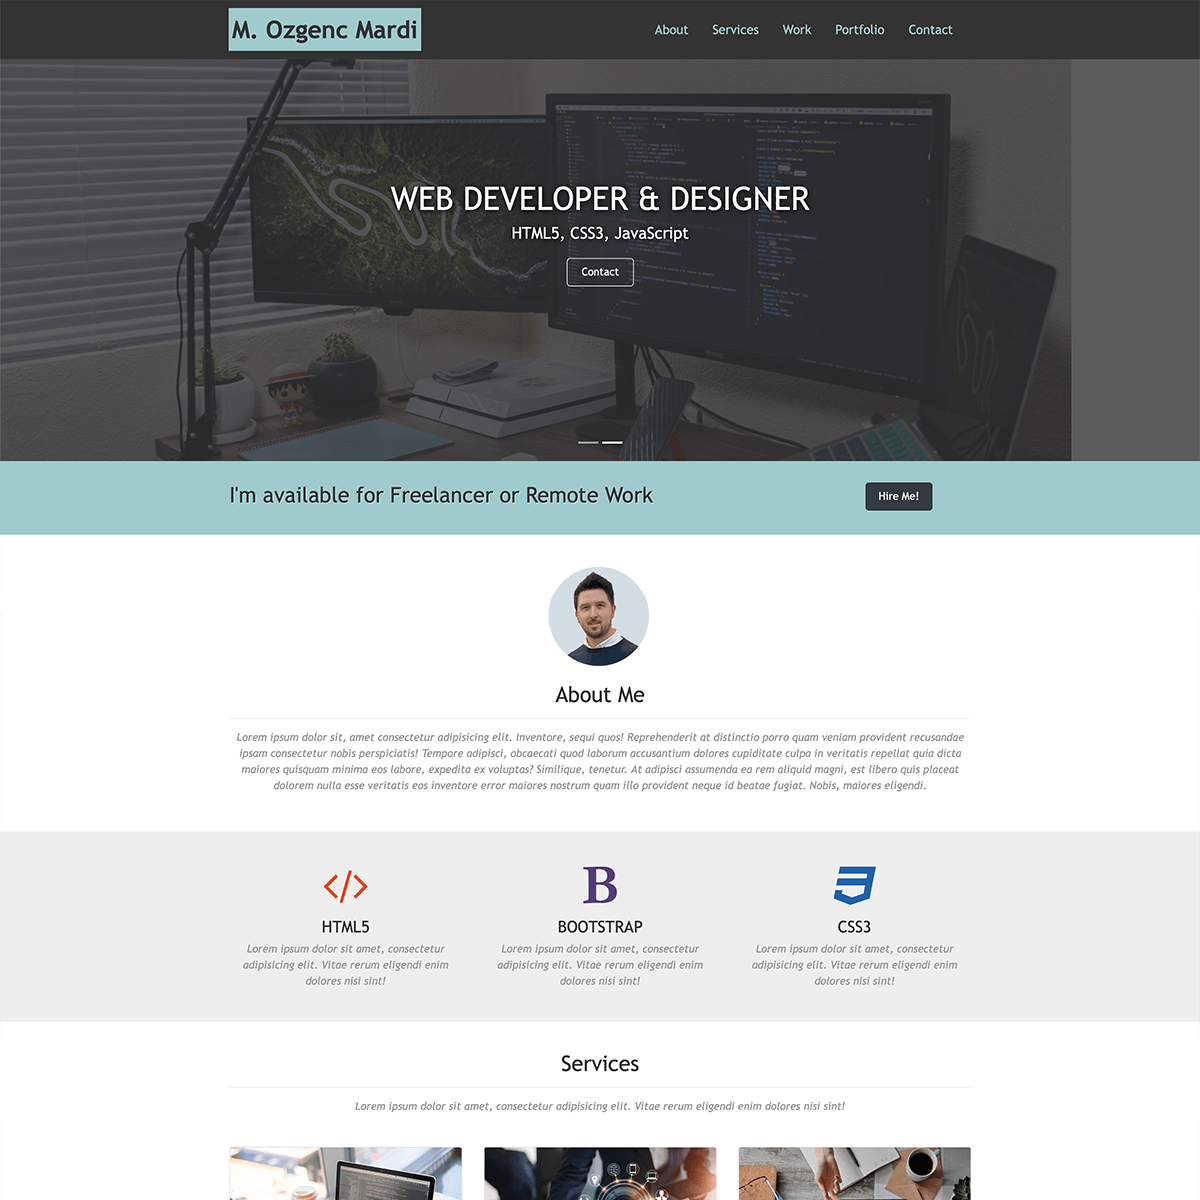
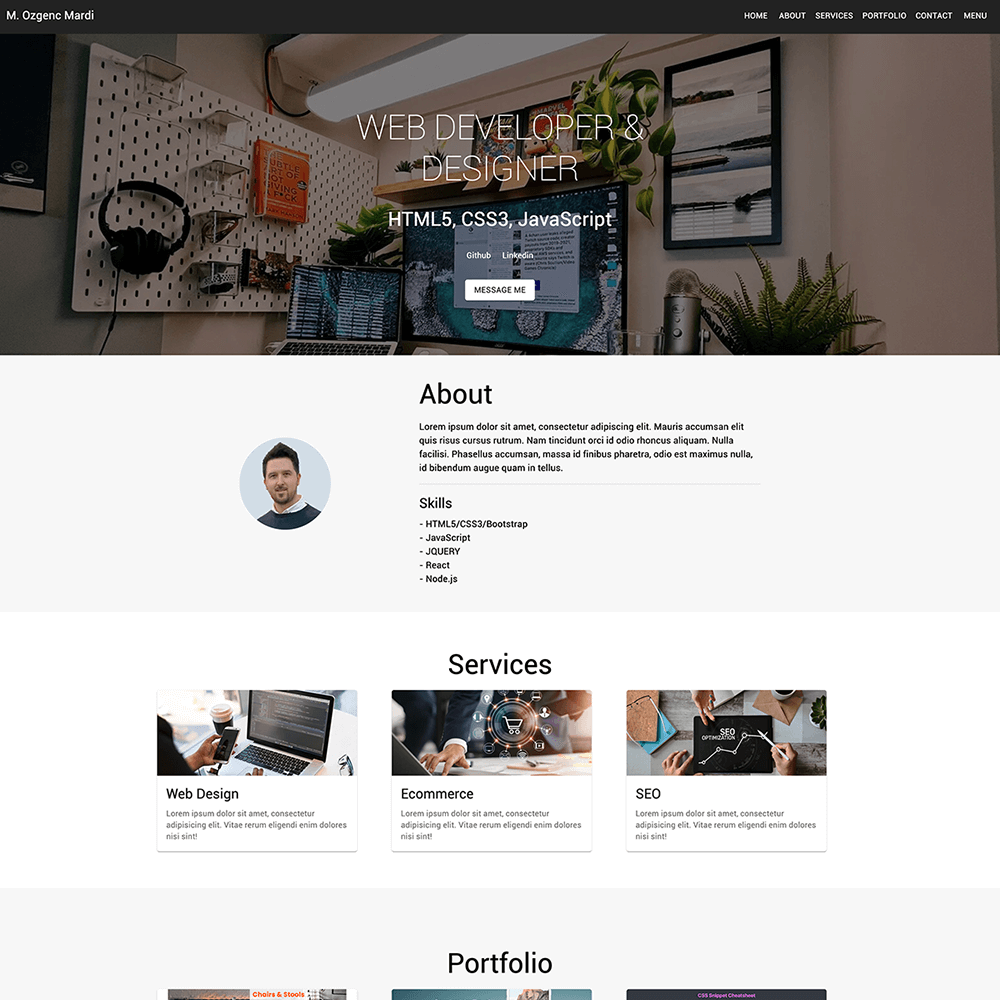
Contact, Header and Screenshot updated

diff --git a/reactportfolio/src/components/Header.js b/reactportfolio/src/components/Header.js
@@ -4,7 +4,9 @@ import {
   AppBar,
   Toolbar,
   Typography,
-  Button
+  Button,
+  Menu,
+  MenuItem
 } from '@material-ui/core';
 
 const useStyles = makeStyles((theme) => ({
@@ -18,19 +20,61 @@ const useStyles = makeStyles((theme) => ({
 
 function Header() {
   const classes = useStyles();
+  const [menuAnchorEl, setMenuAnchorEl] = useState(null);
+
+  const handleMenuOpen = (event) => {
+    setMenuAnchorEl(event.currentTarget);
+  };
+
+  const handleMenuClose = () => {
+    setMenuAnchorEl(null);
+  };
 
   return (
     <div className={classes.root}>
       <AppBar position="static" style={{ backgroundColor: '#222' }}>
         <Toolbar>
-        <Typography variant="h6" href="#home" className={classes.title}>
-          <a href="#home" style={{ color: '#fff', textDecoration: 'none' }}>M. Ozgenc Mardi</a>
-        </Typography>
+          <Typography variant="h6" href="#home" className={classes.title}>
+            <a href="#home" style={{ color: '#fff', textDecoration: 'none' }}>M. Ozgenc Mardi</a>
+          </Typography>
           <Button color="inherit" href="#home">Home</Button>
           <Button color="inherit" href="#about">About</Button>
           <Button color="inherit" href="#services">Services</Button>
           <Button color="inherit" href="#portfolio">Portfolio</Button>
           <Button color="inherit" href="#contact">Contact</Button>
+          <div className="mobile-menu">
+            <Button
+              aria-controls="mobile-menu"
+              aria-haspopup="true"
+              onClick={handleMenuOpen}
+              style={{ color: '#fff' }}
+            >
+              Menu
+            </Button>
+            <Menu
+              id="mobile-menu"
+              anchorEl={menuAnchorEl}
+              keepMounted
+              open={Boolean(menuAnchorEl)}
+              onClose={handleMenuClose}
+            >
+              <MenuItem onClick={handleMenuClose}>
+                <Button color="inherit" href="#home">Home</Button>
+              </MenuItem>
+              <MenuItem onClick={handleMenuClose}>
+                <Button color="inherit" href="#about">About</Button>
+              </MenuItem>
+              <MenuItem onClick={handleMenuClose}>
+                <Button color="inherit" href="#services">Services</Button>
+              </MenuItem>
+              <MenuItem onClick={handleMenuClose}>
+                <Button color="inherit" href="#portfolio">Portfolio</Button>
+              </MenuItem>
+              <MenuItem onClick={handleMenuClose}>
+                <Button color="inherit" href="#contact">Contact</Button>
+              </MenuItem>
+            </Menu>
+          </div>
         </Toolbar>
       </AppBar>
     </div>
@@ -38,4 +82,3 @@ function Header() {
 }
 
 export default Header;
-

diff --git a/reactportfolio/src/components/Contact.js b/reactportfolio/src/components/Contact.js
@@ -100,6 +100,7 @@ function Contact() {
                   color="primary"
                   size="large"
                   className={classes.submitButton}
+                  style={{ backgroundColor: '#222', color: '#fff' }}
                 >
                   Send
                 </Button>
